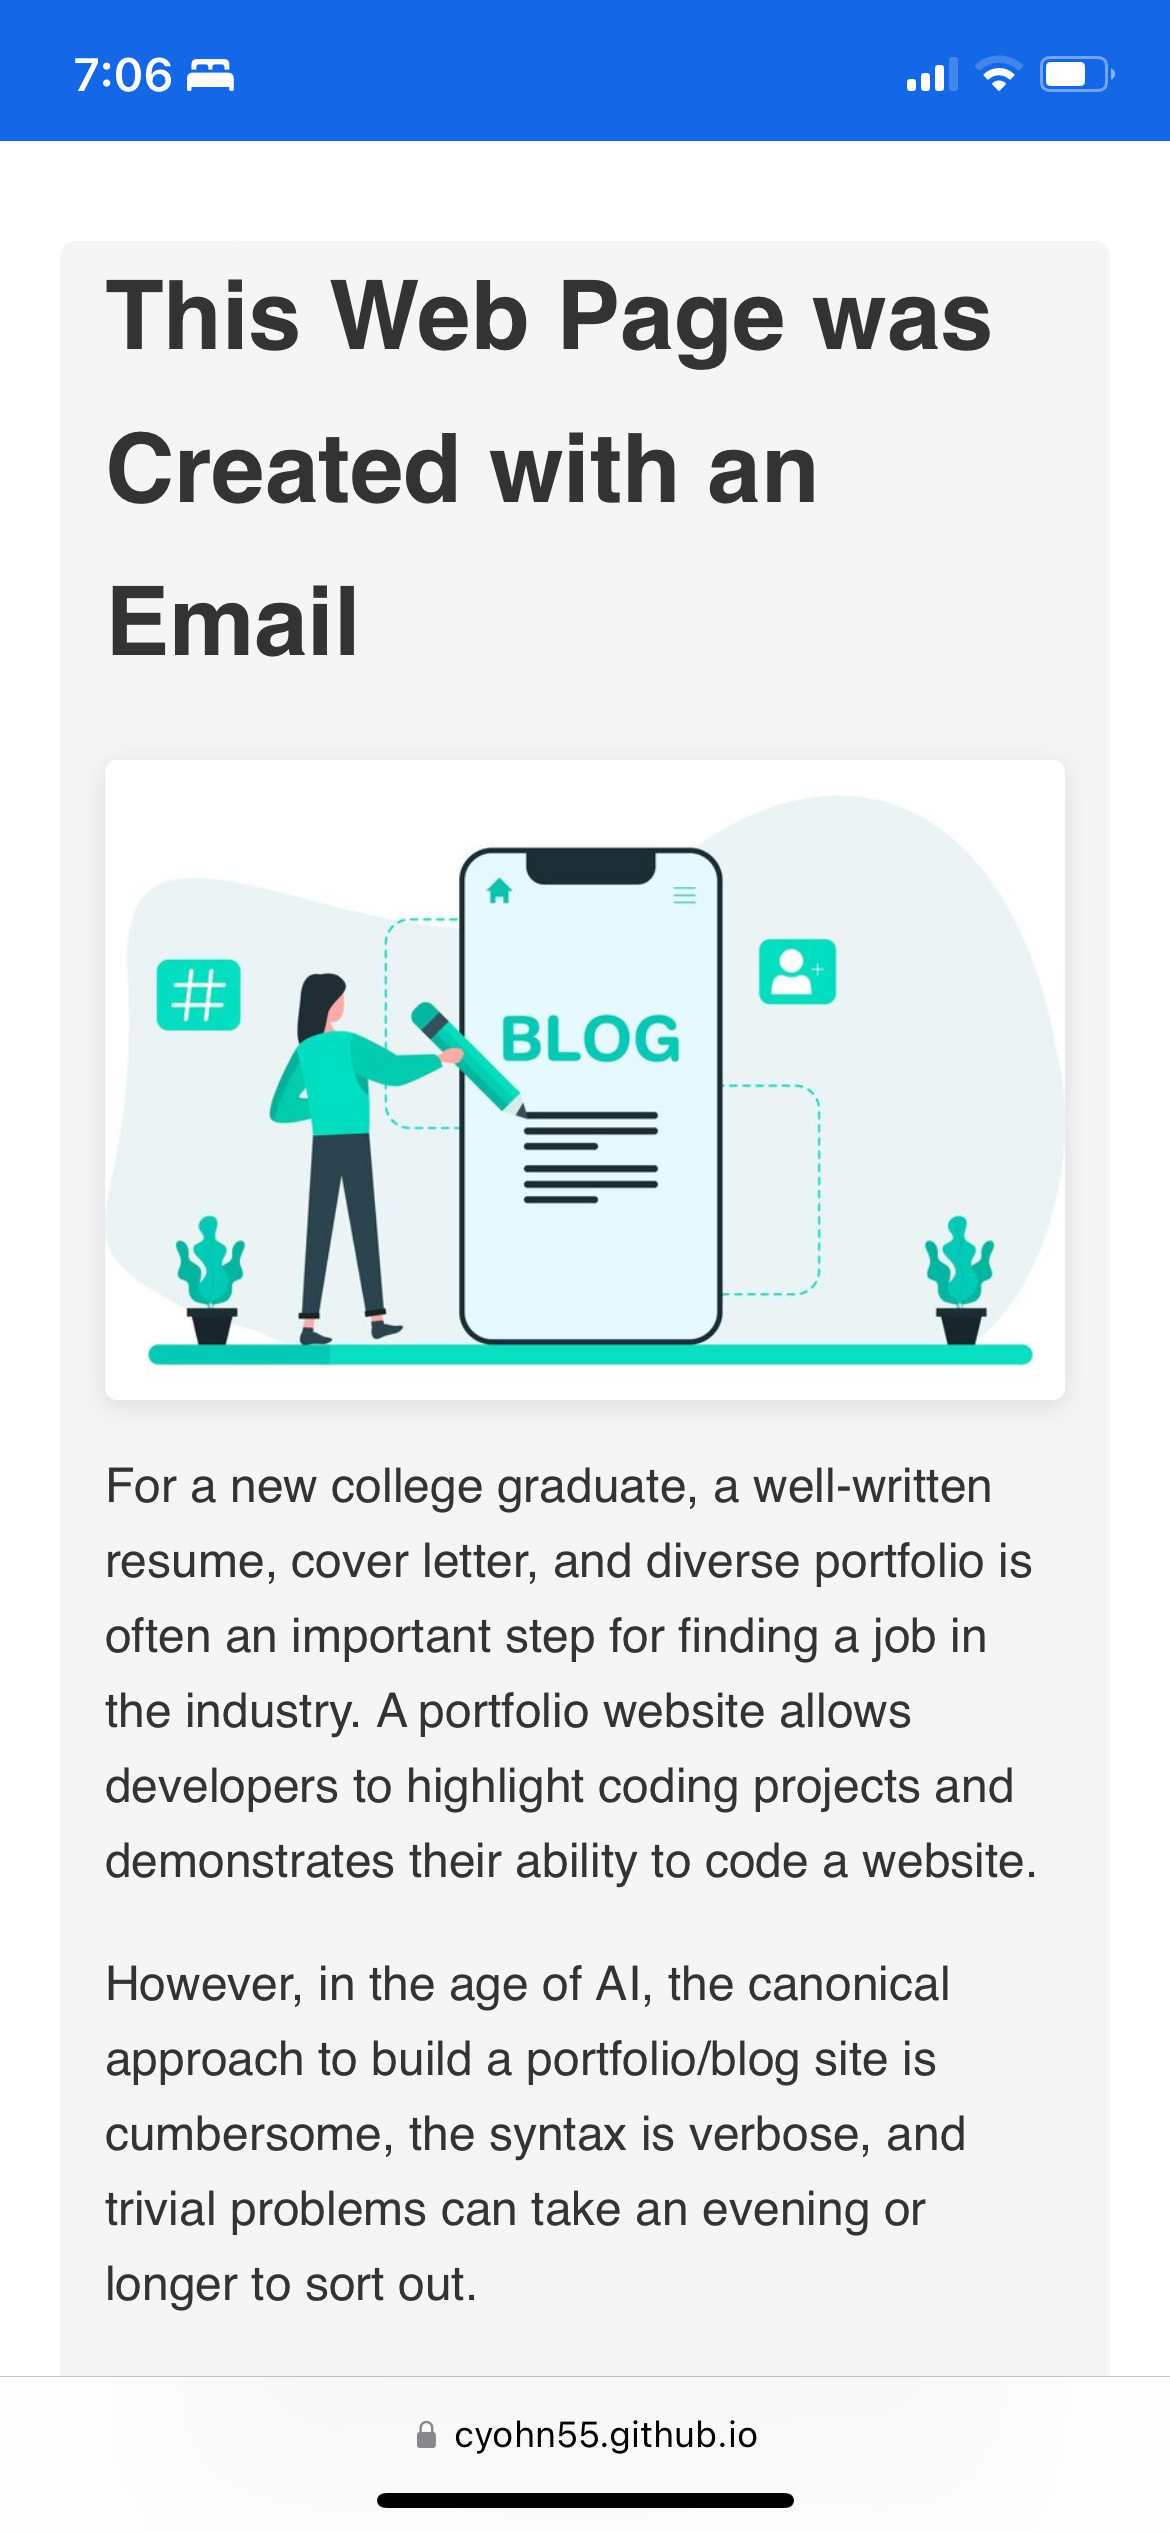
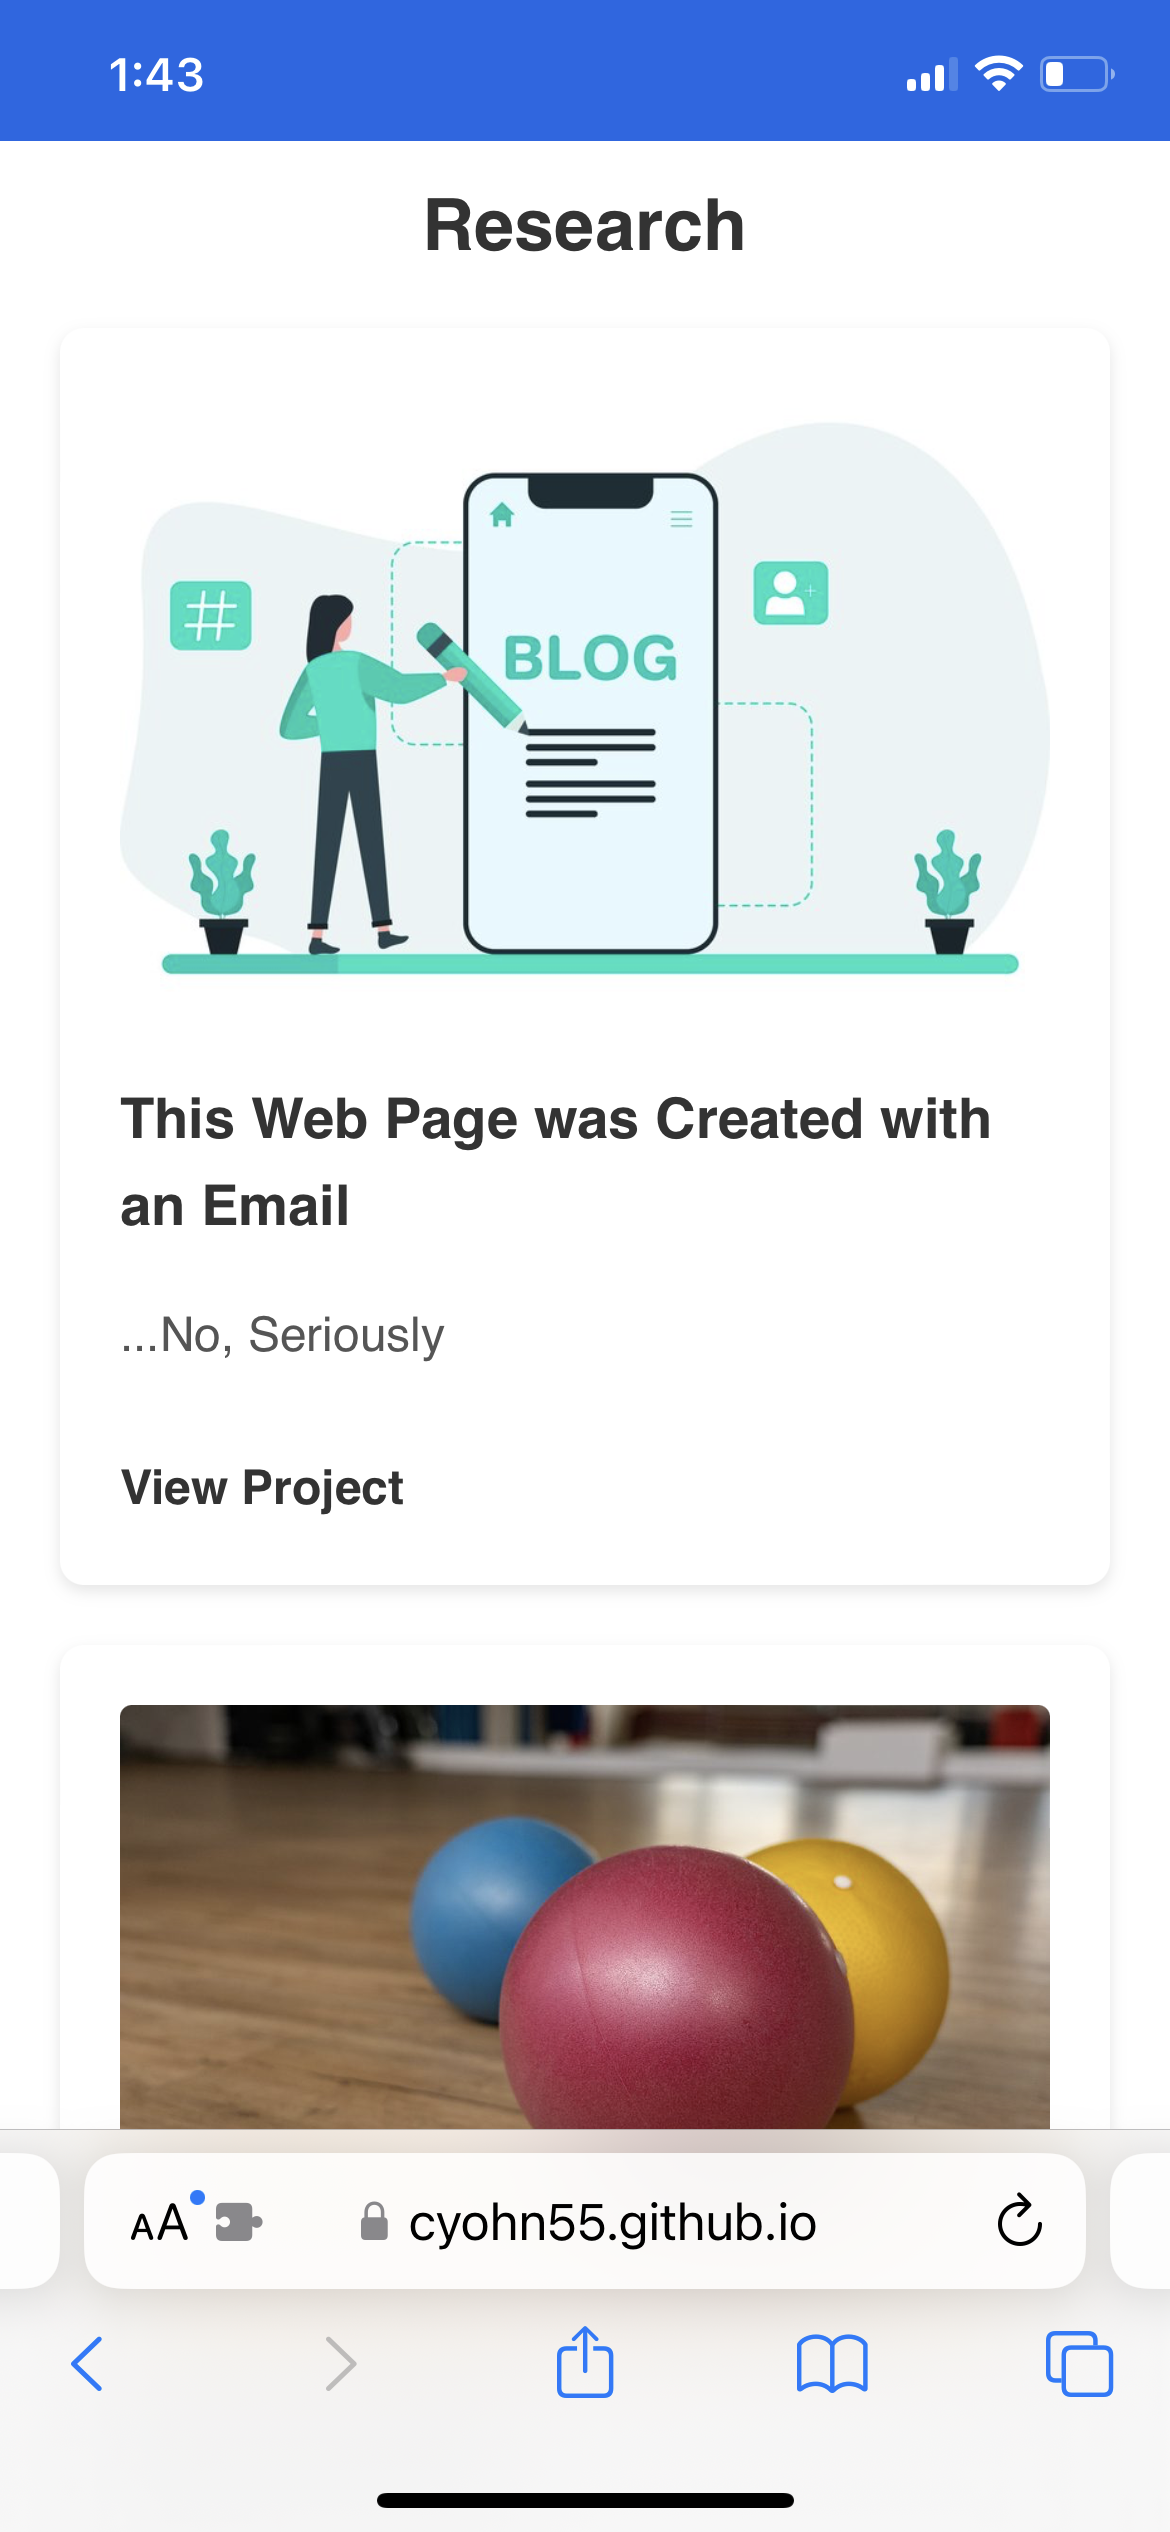
Add new page with media: This Web Page was Created with an Email
Automatically generated from email
Includes 4 media file(s)

diff --git a/Pages/thiswebpagewascreatedwithanemail.html b/Pages/thiswebpagewascreatedwithanemail.html
@@ -7,17 +7,17 @@
     <meta name="description" content="Learn about This Web Page was Created with an Email in Cody&#x27;s portfolio">
     
     <!-- Favicon -->
-    <link rel="icon" type="image/x-icon" href="../images/this_web_page_was_cr_cid_B0DD1BB7-56C7-4392-99BB-28892E9B9D27.jpeg">
-    <link rel="icon" type="image/png" sizes="32x32" href="../images/this_web_page_was_cr_cid_B0DD1BB7-56C7-4392-99BB-28892E9B9D27.jpeg">
-    <link rel="icon" type="image/png" sizes="16x16" href="../images/this_web_page_was_cr_cid_B0DD1BB7-56C7-4392-99BB-28892E9B9D27.jpeg">
-    <link rel="apple-touch-icon" href="../images/this_web_page_was_cr_cid_B0DD1BB7-56C7-4392-99BB-28892E9B9D27.jpeg">
+    <link rel="icon" type="image/x-icon" href="../images/this_web_page_was_cr_cid_838A7273-7257-4720-ABAE-9FDE8334E580.jpeg">
+    <link rel="icon" type="image/png" sizes="32x32" href="../images/this_web_page_was_cr_cid_838A7273-7257-4720-ABAE-9FDE8334E580.jpeg">
+    <link rel="icon" type="image/png" sizes="16x16" href="../images/this_web_page_was_cr_cid_838A7273-7257-4720-ABAE-9FDE8334E580.jpeg">
+    <link rel="apple-touch-icon" href="../images/this_web_page_was_cr_cid_838A7273-7257-4720-ABAE-9FDE8334E580.jpeg">
     
     <!-- Open Graph / Facebook -->
     <meta property="og:type" content="website">
     <meta property="og:url" content="https://cyohn55.github.io/Portfolio/Pages/thiswebpagewascreatedwithanemail.html">
     <meta property="og:title" content="This Web Page was Created with an Email">
     <meta property="og:description" content="Learn about This Web Page was Created with an Email in Cody&#x27;s portfolio">
-    <meta property="og:image" content="https://cyohn55.github.io/Portfolio/images/this_web_page_was_cr_cid_B0DD1BB7-56C7-4392-99BB-28892E9B9D27.jpeg">
+    <meta property="og:image" content="https://cyohn55.github.io/Portfolio/images/this_web_page_was_cr_cid_838A7273-7257-4720-ABAE-9FDE8334E580.jpeg">
     <meta property="og:site_name" content="Cody's Portfolio">
     
     <!-- Twitter -->
@@ -25,7 +25,7 @@
     <meta property="twitter:url" content="https://cyohn55.github.io/Portfolio/Pages/thiswebpagewascreatedwithanemail.html">
     <meta property="twitter:title" content="This Web Page was Created with an Email">
     <meta property="twitter:description" content="Learn about This Web Page was Created with an Email in Cody&#x27;s portfolio">
-    <meta property="twitter:image" content="https://cyohn55.github.io/Portfolio/images/this_web_page_was_cr_cid_B0DD1BB7-56C7-4392-99BB-28892E9B9D27.jpeg">
+    <meta property="twitter:image" content="https://cyohn55.github.io/Portfolio/images/this_web_page_was_cr_cid_838A7273-7257-4720-ABAE-9FDE8334E580.jpeg">
     
     <!-- Link to CSS -->
     <link rel="stylesheet" href="../style.css">
@@ -58,7 +58,7 @@
         <h2>Code(Yohn's) Portfolio</h2>
         <nav>
             <ul>
-                <li><a href="../index.html" class="home-icon"><span class="house-silhouette"></span></a></li>
+                <li><a href="../index.html">Home</a></li>
             </ul>
         </nav>
     </header>
@@ -67,22 +67,22 @@
         <!-- Written Section -->
         <div class="wrap-text-container">
             <h1 class="article-title">This Web Page was Created with an Email</h1>
-            <img src="../images/this_web_page_was_cr_cid_B0DD1BB7-56C7-4392-99BB-28892E9B9D27.jpeg" alt="cid:B0DD1BB7-56C7-4392-99BB-28892E9B9D27.jpeg">
+            <img src="../images/this_web_page_was_cr_cid_838A7273-7257-4720-ABAE-9FDE8334E580.jpeg" alt="cid:838A7273-7257-4720-ABAE-9FDE8334E580.jpeg">
 <p>Yes, you read that correctly. The blog article and web page you're currently viewing, was written entirely within an email.</p>
 <p>For a new college graduate, a well-written resume, cover letter, and diverse portfolio is often an important step for finding a job in the industry. A portfolio website allows developers to highlight coding projects and demonstrates their ability to code a website.</p>
 <p>However, in the age of AI, the canonical approach to build a portfolio/blog site is cumbersome, the syntax verbose, and trivial problems can take an evening or longer to sort out.</p>
 <div style="text-align: center; margin: 10px 0;"><h2><em>…AI has entered the chat…</em></h2></div>
-<p>But, not all is doom and gloom with the help of AI. I wanted to create a simple way where I could quickly add new posts to my portfolio without needing to code them by hand. I knew there were plenty of blogging tools available to me, but I wanted to attempt "vibe coding" to get a better understanding of what LLMs are capable of.</p>
+<p>But, not all is doom and gloom with the help of AI. I wanted to create a simple way where I could quickly add new posts to my portfolio without needing to code them by hand. I knew there were plenty of blogging tools available to me, but I wanted to attempt “vibe coding” to get a better understanding of what LLMs are capable of.</p>
 <strong>How it works:</strong> For the blog tool, I wanted the ability to draft a new email, include text, images, and video in the body of the email, which would act as an HTML blueprint for building a new web page. The email would trigger a <strong>git push</strong> command, pushing my portfolio website live to my github pages website, once the email is sent.
-<img src="../images/this_web_page_was_cr_cid_2F32D74E-012B-4CAB-BC6F-4D9C3D7FFD65.png" alt="cid:2F32D74E-012B-4CAB-BC6F-4D9C3D7FFD65.png">
+<img src="../images/this_web_page_was_cr_cid_68718243-0E3D-4CDF-A3B5-5AE238C7AD8D.png" alt="cid:68718243-0E3D-4CDF-A3B5-5AE238C7AD8D.png">
 <div class="desktop-only" style="display: block; text-align: center; margin: 10px 0;"><strong>Here is the result:</strong> First, a new web page is generated using the email and markdown tags to style the content.</div>
 <div class="mobile-only" style="display: none; text-align: left; margin: 10px 0;"><strong>Here is the result:</strong> First, a new web page is generated using the email and markdown tags to style the content.</div>
-<img src="../images/this_web_page_was_cr_cid_DCEC678A-D455-4845-BAA4-E6FCCBE72430-L0-001.png" alt="cid:DCEC678A-D455-4845-BAA4-E6FCCBE72430-L0-001.png">
+<img src="../images/this_web_page_was_cr_cid_107D6116-2F3C-4B94-BEC9-660C84E81B0F.png" alt="cid:107D6116-2F3C-4B94-BEC9-660C84E81B0F.png">
 <div class="desktop-only" style="display: block; text-align: center; margin: 10px 0;"><strong>Next:</strong> a corresponding blog tile is created on the home page, which links to the newly generated web page.</div>
 <div class="mobile-only" style="display: none; text-align: left; margin: 10px 0;"><strong>Next:</strong> a corresponding blog tile is created on the home page, which links to the newly generated web page.</div>
-<img src="../images/this_web_page_was_cr_cid_0E9CEDA4-FB71-4AC5-8F5D-571E30004D67.png" alt="cid:0E9CEDA4-FB71-4AC5-8F5D-571E30004D67.png">
+<img src="../images/this_web_page_was_cr_image0.png" alt="image0.png">
 <em>Sent from my iPhone</em>
-            <p><em>Created: June 20, 2025</em></p>
+            <p><em>Created: June 21, 2025</em></p>
         </div>
     </div>
 

diff --git a/index.html b/index.html
@@ -36,7 +36,7 @@
             <h2>Code(Yohn's) Portfolio</h2>
             <nav>
             <ul>
-                <li><a href="index.html" class="home-icon"><span class="house-silhouette"></span></a></li>
+                <li><a href="index.html">Home</a></li>
             </ul>
         </nav>
         </header>
@@ -130,11 +130,12 @@
                   <div id="project-container" class="project-container">
               <!-- Project items -->
             <div class="project">
-                <img src="images/this_web_page_was_cr_cid_B0DD1BB7-56C7-4392-99BB-28892E9B9D27.jpeg" alt="This Web Page was Created with an Email">
+                <img src="images/this_web_page_was_cr_cid_838A7273-7257-4720-ABAE-9FDE8334E580.jpeg" alt="This Web Page was Created with an Email">
                 <h3>This Web Page was Created with an Email</h3>
                 <p>...No, Seriously</p>
                 <a href="Pages/thiswebpagewascreatedwithanemail.html">View Project</a>
             </div>
+            
             
             
             
